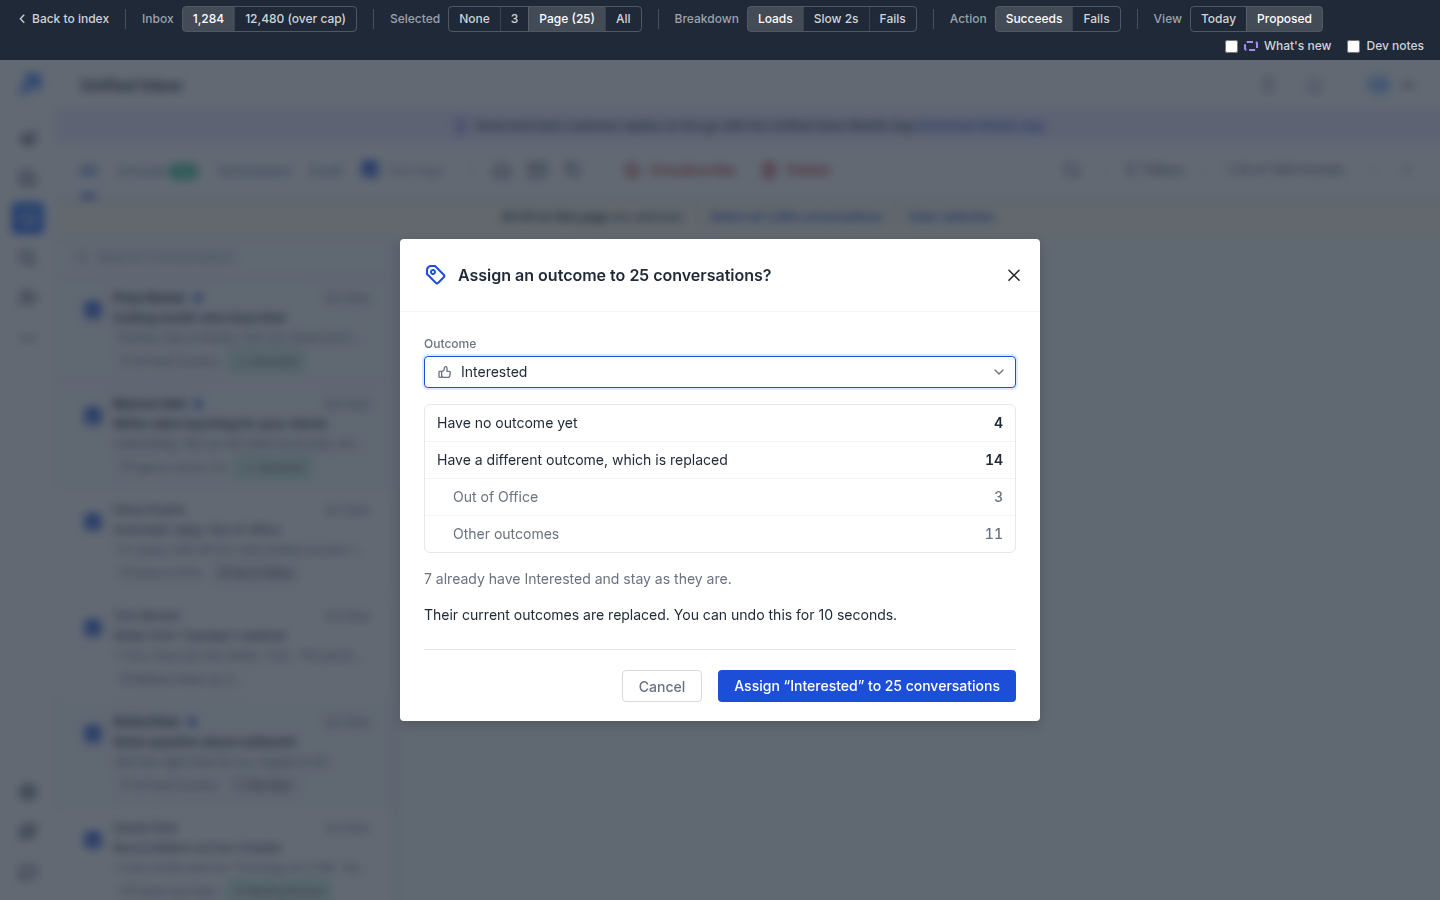
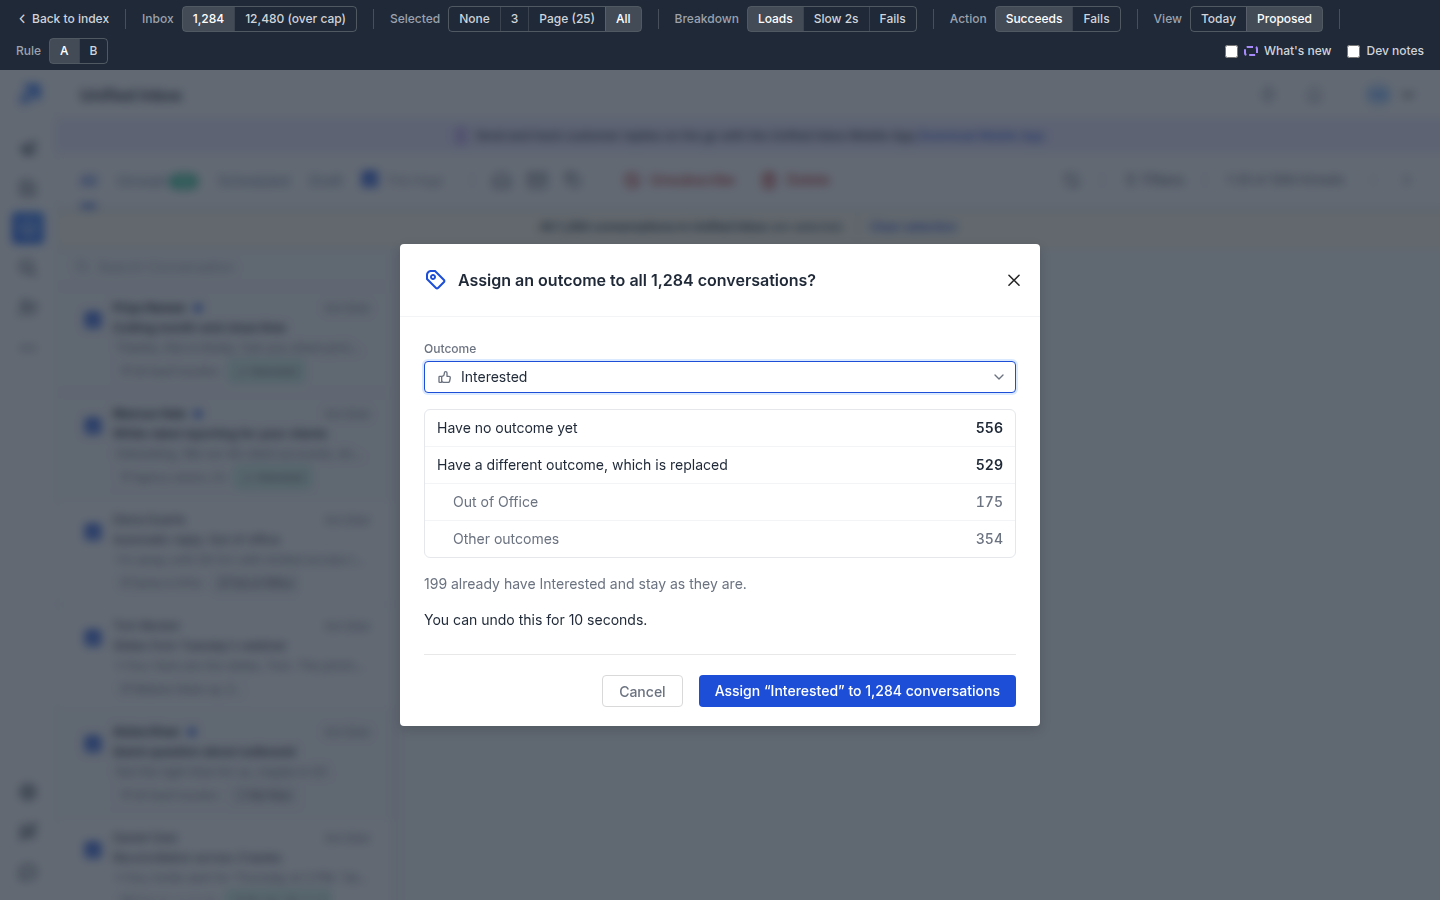
Polish pass: one-sentence credit cost, no repeated rows, consistent labels
- One cost reads as one sentence: This uses X credits of your Y, leaving Z (or You have Y, so you are Z short)
- Inbox delete and unsubscribe drop the row that repeated the title count; outcome text no longer repeats replaced
- Tasks skip keeps task rows only; list pause row is Subsequences; steps remove-account text no longer repeats the row
- Field labels match Confirm by typing; dialog text avoids one-word last lines
- Downgrade date only in the title; export title and button match; paused account copy without a time word
- Spec rules, screens 07 12 14 15 17 20 27 28 32 35, PRD page and canvas updated; refs ?v=20261120e

diff --git a/prototype/unified-inbox.js b/prototype/unified-inbox.js
@@ -315,11 +315,11 @@
     return nxImpactDialog(common({
       title, tone: 'danger', undoable: { n: N, all: all || (S.all && !stay) },
       rows: [
-        { key: 'n', label: 'Conversations', value: N, cls: 'nx-total' },
-        { key: 'active', label: 'From prospects still in an active sequence', value: s.active, sub: true },
-        { key: 'unread', label: 'With unread replies', value: s.unread, sub: true },
-        { key: 'sd', label: 'With a scheduled reply or a draft', value: s.sd, sub: true },
+        { key: 'active', label: 'From prospects still in an active sequence', value: s.active },
+        { key: 'unread', label: 'With unread replies', value: s.unread },
+        { key: 'sd', label: 'With a scheduled reply or a draft', value: s.sd },
       ],
+      sentence: (r) => ({ active: `${fmt(r.value)} ${r.value === 1 ? 'is' : 'are'} from prospects still in an active sequence.`, unread: `${fmt(r.value)} ${r.value === 1 ? 'has an unread reply' : 'have unread replies'}.`, sd: `${fmt(r.value)} ${r.value === 1 ? 'has' : 'have'} a scheduled reply or a draft.` }[r.key]),
       consequence: `The emails stay in your mailbox; they disappear from Saleshandy. You can undo this for 10 seconds.${all ? ' This empties Unified Inbox.' : ''}${stay ? ` ${fmt(stay)} stay. Run it again for the rest.` : ''}`,
       primaryLabel: N === 1 ? `${VERB.base} conversation` : all && !stay ? `${VERB.base} all ${nC(N)}` : `${VERB.base} ${nC(N)}`,
       failMessage: { title: `We couldn't ${VERB.base.toLowerCase()} ${N === 1 ? 'this conversation' : 'these conversations'} because the connection to Saleshandy dropped.`, body: `Nothing was ${VERB.past.toLowerCase()}. Check your connection and try again.` },
@@ -366,10 +366,10 @@
     return nxImpactDialog(common({
       title, tone: 'danger', undoable: { n: N, all }, icon: NX.IMG('unsubscribe-ban.svg'),
       rows: [
-        { key: 'n', label: 'Prospects', value: N, cls: 'nx-total' },
-        { key: 'act', label: 'Still in an active sequence, which stops', value: act, sub: true },
-        { key: 'oth', label: 'Also in other sequences, which stop too', value: oth, sub: true },
+        { key: 'act', label: 'Still in an active sequence, which stops', value: act },
+        { key: 'oth', label: 'Also in other sequences, which stop too', value: oth },
       ],
+      sentence: (r) => (r.key === 'act' ? `${fmt(r.value)} ${r.value === 1 ? 'is' : 'are'} still in an active sequence, which stops.` : `${fmt(r.value)} ${r.value === 1 ? 'is' : 'are'} also in other sequences, which stop too.`),
       note: notes.length ? notes.join(' ') : null,
       consequence: `No sequence will email ${N === 1 ? first(targets[0]) : 'them'} again. You can undo this for 10 seconds.`,
       primaryLabel: N === 1 ? 'Unsubscribe prospect' : `Unsubscribe ${nP(N)}`,
@@ -426,7 +426,7 @@
     const dlg = nxImpactDialog(common({
       title, tone: 'primary', icon: NX.IMG('tag-blue.svg'),
       rows: base.rows, sentence, extra,
-      consequence: 'Their current outcomes are replaced. You can undo this for 10 seconds.',
+      consequence: 'You can undo this for 10 seconds.',
       primaryLabel: `Assign outcome to ${nC(N)}`,
       failMessage: { title: 'We couldn\'t assign this outcome because it was deleted in Settings a moment ago.', body: 'Refresh the page to get the current outcomes, then try again.' },
       onConfirm: (k) => {
@@ -458,7 +458,7 @@
         noteEl.hidden = !(picked && r.same);
         if (picked && r.same) noteEl.textContent = `${fmt(r.same)} already ${r.same === 1 ? 'has' : 'have'} ${oName(picked)} and ${r.same === 1 ? 'stays' : 'stay'} as ${r.same === 1 ? 'it is' : 'they are'}.`;
       }
-      cons.textContent = r.repN || !loaded ? `${picked === 'unc' ? 'Their current outcomes are removed.' : 'Their current outcomes are replaced.'} You can undo this for 10 seconds.` : 'You can undo this for 10 seconds.';
+      cons.textContent = (r.repN || !loaded) && picked === 'unc' ? 'Their current outcomes are removed. You can undo this for 10 seconds.' : 'You can undo this for 10 seconds.'; // the row already says "replaced"
       if (picked) c.setPrimary({ disabled: false, label: `Assign “${esc(oName(picked))}” to ${nC(N)}` });
     }
     setTimeout(() => extra.sel && extra.sel.bar.focus({ preventScroll: true }), 0);

diff --git a/prototype/kit/kit.css b/prototype/kit/kit.css
@@ -186,9 +186,10 @@ body { font-family: Inter, sans-serif; background: #fff; color: var(--nx-text); 
 .nx-cost .nx-balance { color: var(--nx-text-2); }
 .nx-cost .nx-balance b { color: var(--nx-text); font-weight: 600; font-variant-numeric: tabular-nums; }
 .nx-cost .nx-balance b.nx-cost-short { color: var(--nx-red); }
-.nx-cost .nx-cost-line b { font-weight: 600; }
 .nx-cost .nx-receipt .nx-row.nx-total { background: none; border-top: 1px solid var(--nx-border); }
 .nx-cost .nx-receipt + .nx-balance { margin-top: -4px; }
+.nx-cost .nx-cost-one b { font-weight: 600; font-variant-numeric: tabular-nums; }
+.nx-cost .nx-cost-one b.nx-cost-short { color: var(--nx-red); }
 .nx-rows .react-loading-skeleton { width: 40px; height: 12px; display: block; border-radius: 4px; margin: 4px 0; }
 .nx-rows .nx-row .nx-skel-l { width: 168px; height: 12px; }
 .nx-loadfail { display: flex; gap: 8px; align-items: flex-start; padding: 8px 12px; border: 1px solid var(--nx-border); border-radius: 6px; background: var(--nx-gray-50); color: var(--nx-text-2); font-size: 14px; line-height: 20px; }
@@ -200,8 +201,8 @@ body { font-family: Inter, sans-serif; background: #fff; color: var(--nx-text); 
 .nx-error { display: flex; gap: 8px; align-items: flex-start; padding: 12px; border: 1px solid var(--nx-red-200); border-radius: 6px; background: var(--nx-red-50); color: var(--nx-red); font-size: 14px; line-height: 20px; }
 .nx-error img { width: 20px; height: 20px; flex-shrink: 0; }
 .nx-error b { font-weight: 600; display: block; }
-.nx-field { display: flex; flex-direction: column; gap: 4px; }
-.nx-field label, .nx-field .nx-label { font-size: 12px; line-height: 16px; font-weight: 600; color: var(--nx-text-2); margin: 0; }
+.nx-field { display: flex; flex-direction: column; gap: 8px; }
+.nx-field label, .nx-field .nx-label { font-size: 14px; line-height: 20px; font-weight: 400; color: var(--nx-text); margin: 0; } /* same as "Confirm by typing" */
 .nx-field input[type="password"], .nx-field input[type="text"], .nx-field input[type="number"], .nx-field select { height: 32px; box-sizing: border-box; border: 1px solid var(--nx-border-2); border-radius: 6px; padding: 0 12px; font: 14px/20px Inter, sans-serif; color: var(--nx-text); background: #fff; }
 .nx-field input:focus, .nx-field select:focus { outline: 0; border-color: var(--nx-blue); box-shadow: 0 0 0 3px var(--nx-blue-100); }
 .nx-field.nx-invalid input { border-color: var(--nx-red); }
@@ -285,3 +286,6 @@ main.home-container:focus { outline: none; }
   /* the changelog bolt is the least needed icon at phone width: dropping it leaves the sequence name room (bell and avatar stay) */
   .nx-kit .page-header > .w-auto > .ml-3:first-child { display: none; }
 }
+
+/* no one-word last lines in dialog copy */
+.nx-dialog .modal-body p, .nx-dialog .nx-error, .nx-dialog .nx-rows dt { text-wrap: pretty; }

diff --git a/prototype/tasks.js b/prototype/tasks.js
@@ -99,7 +99,7 @@
       intro: 'Spec row 11, plus bulk Retry on the Failed tab. Breakdown counts come from the backend before the dialog opens; the client cannot count them for "Select all". Undo needs the skip to start only after 10 seconds and be cancellable until then. Today the single-task skip already calls an undo endpoint (sendGetUndoTasksRequest); bulk has none.',
       rows: [
         { n: 11, surface: 'Tasks (Due Today, Upcoming, Overdue, Failed)', action: 'Bulk skip, up to 25,000', patterns: 'A B F H', undo: 'Yes, 10 seconds',
-          breakdown: 'Tasks by type (Call, LinkedIn, Manual email; zero rows hidden), and "Prospects who move to their next step". A note under the rows counts tasks that are the last step of their sequence (those prospects finish the sequence instead). Title names the tab: "Skip 36 tasks due today?", "Skip all 1,120 tasks due today?", "Skip 8 failed tasks?".',
+          breakdown: 'Tasks by type (Call, LinkedIn, Manual email; zero rows hidden). Where the prospects go is said in the consequence, not as a row. A note under the rows counts tasks that are the last step of their sequence (those prospects finish the sequence instead). Title names the tab: "Skip 36 tasks due today?", "Skip all 1,120 tasks due today?", "Skip 8 failed tasks?".',
           code: [
             { label: 'tasks-content.tsx L2303-2345 (fixed title "Skip task", "No" / "Skip Anyway")', url: C + 'tasks-content.tsx#L2303-L2345' },
             { label: 'tasks-content.tsx L2058-2066 (copy, no count)', url: C + 'tasks-content.tsx#L2058-L2066' },
@@ -260,9 +260,8 @@
         { key: 'call', label: 'Call tasks', value: s.call },
         { key: 'linkedin', label: 'LinkedIn tasks', value: s.linkedin },
         { key: 'email', label: 'Manual email tasks', value: s.email },
-        { key: 'move', label: 'Prospects who move to their next step', value: s.move },
       ],
-      sentence: (r) => (r.key === 'move' ? `All ${fmt(N)} prospects move to their next step.` : `All ${fmt(N)} are ${kind[r.key][1]}.`),
+      sentence: (r) => `All ${fmt(N)} are ${kind[r.key][1]}.`, // rows count tasks only; where prospects go is the consequence
       note: s.last ? `${fmt(s.last)} of these ${s.last === 1 ? 'is the last step in its sequence, so that prospect finishes it' : 'are the last step in their sequence, so those prospects finish it'} instead.` : null,
       consequence: `Each prospect moves on and their next step is scheduled. You can undo this for 10 seconds.${all ? (failed ? ' This clears the Failed list.' : ' This clears your Due Today list.') : ''}`,
       primaryLabel: all ? `Skip all ${nT(N)}` : `Skip ${nT(N)}`,

diff --git a/prototype/kit/kit.js b/prototype/kit/kit.js
@@ -824,7 +824,12 @@
       : `You have ${cr(o.have)}. <b>${fmt(o.have - uses)}</b> left after this.`;
     const html = o.items.length > 1
       ? `<dl class="nx-rows nx-receipt">${o.items.map((i) => `<div class="nx-row"><dt>${iname(i)}</dt><dd>${fmt(i.credits)}</dd></div>`).join('')}<div class="nx-row nx-total"><dt>Total</dt><dd>${cr(uses)}</dd></div></dl><p class="nx-balance">${bal}</p>`
-      : `<p class="nx-cost-line">This uses <b>${cr(uses)}</b>.</p><p class="nx-balance">${bal}</p>`;
+      : (() => { // one cost: one sentence with cost, balance and what is left; an estimate only adds "about"
+        const about = o.estimate ? 'about ' : '';
+        return short
+          ? `<p class="nx-cost-one">This uses <b>${about}${cr(uses)}</b>. You have ${fmt(o.have)}, so you are <b class="nx-cost-short">${fmt(short)} short</b>.</p>`
+          : `<p class="nx-cost-one">This uses <b>${about}${cr(uses)}</b> of your ${fmt(o.have)}, leaving <b>${fmt(o.have - uses)}</b>.</p>`;
+      })();
     const body = h(`<div class="nx-impact nx-new nx-cost">${html}${o.consequence ? `<p class="nx-consequence">${o.consequence}</p>` : ''}</div>`);
     const run = (fn) => (c) => {
       c.setError(null); c.setBusy(true);
@@ -852,7 +857,7 @@
     let need = 0;
     const picked = new Set();
     if (o.kind === 'downgrade') {
-      body.appendChild(h(`<p>On <b>${o.date}</b>, these stop:</p>`));
+      body.appendChild(h('<p>These stop on that date:</p>')); // the date is in the title
       body.appendChild(h(renderRows(o.stops) || '<span></span>'));
       if (o.list && o.list.items.length) {
         // named list of what pauses, so nothing is a surprise on the date

diff --git a/prototype/admin-billing.js b/prototype/admin-billing.js
@@ -265,10 +265,10 @@
     if (key === 'export') {
       if (!wanted || isToday()) return apply(() => { A.exportOn = wanted; if (!wanted) A.exportAdmin = false; });
       return reauth({
-        title: `Let ${TEAM.members} team members export data?`,
+        title: `Allow ${TEAM.members} team members to export data?`,
         sentence: `${TEAM.members} members can download prospects, reports, leads and engagement data as files.`,
         consequence: 'Files that leave Saleshandy can\'t be called back. You can turn this off at any time.',
-        primaryLabel: `Allow ${TEAM.members} members to export`,
+        primaryLabel: `Allow ${TEAM.members} members to export data`,
         onConfirm: () => apply(() => { A.exportOn = true; }, `${TEAM.members} members can now export data`),
       });
     }
@@ -384,7 +384,7 @@
           { label: 'A/B tests that stop', value: 5 },
         ],
         list: { title: 'Sequences that pause', items: PAUSING },
-        consequence: `Sequences pause and A/B tests stop; email tracking and warm-up keep working. Nothing changes until ${BILL.next}. Your bill goes from ${money(before)} to ${money(after)} a month.`,
+        consequence: `Sequences pause and A/B tests stop; email tracking and warm-up keep working. Nothing changes until then. Your bill goes from ${money(before)} to ${money(after)} a month.`,
         primaryLabel: `Downgrade to ${p.name.replace(' (Monthly)', '')}`,
         tone: 'primary', submit: S.result, submitDelay: SD(),
         failMessage: { title: 'Your plan did not change.', body: 'The billing service did not respond. Try again in a minute.' },

diff --git a/prototype/popup-directions.html b/prototype/popup-directions.html
@@ -6,7 +6,7 @@
 <title>Bulk bar popups: directions</title>
 <link href="https://fonts.googleapis.com/css2?family=Inter:wght@400;500;600;700&display=swap" rel="stylesheet">
 <link rel="stylesheet" href="prod/index.css">
-<link rel="stylesheet" href="kit/kit.css?v=20261120b">
+<link rel="stylesheet" href="kit/kit.css?v=20261120e">
 <style>
 html, body { height: auto; overflow: auto; }
 body { margin: 0; background: #f9fafb; color: #1f2937; font: 14px/20px Inter, sans-serif; }
@@ -112,8 +112,8 @@ table.t td.n { white-space: nowrap; font-weight: 600; font-variant-numeric: tabu
 </table>
 <p class="l" style="margin-top:12px">Verified: layout and classes render from the kit's nxDialog (production ConfirmationModalV3). Assumed: the can't-undo facts for Unsubscribe and Finished come from the 19 Nov review notes, not from the backend; "add them again" after unsubscribe is the review's stated workaround and re-adding an unsubscribed prospect may be blocked by compliance, so Dhruv or Chintan should confirm it before it ships in copy.</p>
 </main>
-<script src="kit/kit.js?v=20261120b"></script>
-<script src="sequence-prospects-markup.js?v=20261120b"></script>
+<script src="kit/kit.js?v=20261120e"></script>
+<script src="sequence-prospects-markup.js?v=20261120e"></script>
 <script>
 (function () {
   const { h } = NX;

diff --git a/prototype/sequence-list.js b/prototype/sequence-list.js
@@ -249,11 +249,6 @@
         el.querySelector('.bs-checkbox-wrapper').insertAdjacentHTML('beforeend', `<span class="checkbox-label-text">Pause the ${count === 1 ? 'subsequence' : `${fmt(count)} subsequences`} as well</span>`);
         el.querySelector('input').addEventListener('change', (e) => {
           on = e.target.checked;
-          if (row) {
-            row.label = on ? 'Subsequences' : 'Subsequences, which keep sending';
-            const dt = document.querySelector('.nx-dialog .sl-subrow dt');
-            if (dt) dt.textContent = row.label;
-          }
         });
       },
       value() { return on; },
@@ -283,7 +278,7 @@
     const subs = arr.reduce((a, s) => a + s.subs.filter((x) => x.progress === 'active').length, 0);
     const all = !single && isEverything(sel) && skipped === 0;
     const allActive = !single && N === list().filter((s) => s.progress === 'active').length && N > 1;
-    const subRow = { key: 'subs', label: 'Subsequences, which keep sending', value: subs, cls: 'sl-subrow' };
+    const subRow = { key: 'subs', label: 'Subsequences', value: subs, cls: 'sl-subrow' }; // the checkbox under it carries the choice
     const one = N === 1;
     const o = dlgCommon({
       title: one ? `Pause ${q(arr[0])}?` : all ? `Pause all ${nS(N)}?` : `Pause ${nS(N)}?`,

diff --git a/prototype/tasks.html b/prototype/tasks.html
@@ -10,7 +10,7 @@
 <link href="https://fonts.googleapis.com/css2?family=Inter:wght@400;500;600;700&display=swap" rel="stylesheet">
 <!-- Production stylesheet, verbatim from my.saleshandy.com; icon font repointed to local files beside it. -->
 <link rel="stylesheet" href="prod/index.css">
-<link rel="stylesheet" href="kit/kit.css?v=20261120b">
+<link rel="stylesheet" href="kit/kit.css?v=20261120e">
 <style>
 /* page-only rules. Production layout comes from prod/index.css; nx- and tk- rules cover what is new or what the demo bar changes. */
 #tk-root { flex: 1; min-height: 0; display: flex; flex-direction: column; }
@@ -66,8 +66,8 @@ body:has(.pagination-container-new) .nx-toasts.bs-message-container .bs-message.
 </style>
 </head>
 <body>
-<script src="kit/kit.js?v=20261120b"></script>
-<script src="tasks-markup.js?v=20261120b"></script>
-<script src="tasks.js?v=20261120b"></script>
+<script src="kit/kit.js?v=20261120e"></script>
+<script src="tasks-markup.js?v=20261120e"></script>
+<script src="tasks.js?v=20261120e"></script>
 </body>
 </html>

diff --git a/prototype/crm-prospects.html b/prototype/crm-prospects.html
@@ -10,7 +10,7 @@
 <link href="https://fonts.googleapis.com/css2?family=Inter:wght@400;500;600;700&display=swap" rel="stylesheet">
 <!-- Production stylesheet, verbatim from my.saleshandy.com; icon font repointed to local files beside it. -->
 <link rel="stylesheet" href="prod/index.css">
-<link rel="stylesheet" href="kit/kit.css?v=20261120b">
+<link rel="stylesheet" href="kit/kit.css?v=20261120e">
 <style>
 /* page-only rules. Production layout comes from prod/index.css; nx- rules cover what is new, crm- rules stand in
    for third-party widgets the prototype does not load (OverlayScrollbars, react-autosuggest, Select, the prompt editor). */
@@ -103,8 +103,8 @@
 </style>
 </head>
 <body>
-<script src="kit/kit.js?v=20261120b"></script>
-<script src="crm-prospects-markup.js?v=20261120b"></script>
-<script src="crm-prospects.js?v=20261120b"></script>
+<script src="kit/kit.js?v=20261120e"></script>
+<script src="crm-prospects-markup.js?v=20261120e"></script>
+<script src="crm-prospects.js?v=20261120e"></script>
 </body>
 </html>

diff --git a/prototype/settings.html b/prototype/settings.html
@@ -10,7 +10,7 @@
 <link href="https://fonts.googleapis.com/css2?family=Inter:wght@400;500;600;700&display=swap" rel="stylesheet">
 <!-- Production stylesheet, verbatim from my.saleshandy.com; icon font repointed to local files beside it. -->
 <link rel="stylesheet" href="prod/index.css">
-<link rel="stylesheet" href="kit/kit.css?v=20261120b">
+<link rel="stylesheet" href="kit/kit.css?v=20261120e">
 <style>
 /* page-only rules. Production layout comes from prod/index.css; st- and nx- rules cover the prototype and what is new. */
 /* Delete User popup: wider than production's 27.375rem so each sentence sits on one line at desktop (Hitesh, 20 Nov 2026). */
@@ -71,8 +71,8 @@
 </style>
 </head>
 <body>
-<script src="kit/kit.js?v=20261120b"></script>
-<script src="settings-markup.js?v=20261120b"></script>
-<script src="settings.js?v=20261120b"></script>
+<script src="kit/kit.js?v=20261120e"></script>
+<script src="settings-markup.js?v=20261120e"></script>
+<script src="settings.js?v=20261120e"></script>
 </body>
 </html>

diff --git a/prototype/unified-inbox.html b/prototype/unified-inbox.html
@@ -10,7 +10,7 @@
 <link href="https://fonts.googleapis.com/css2?family=Inter:wght@400;500;600;700&display=swap" rel="stylesheet">
 <!-- Production stylesheet, verbatim from my.saleshandy.com; icon font repointed to local files beside it. -->
 <link rel="stylesheet" href="prod/index.css">
-<link rel="stylesheet" href="kit/kit.css?v=20261120b">
+<link rel="stylesheet" href="kit/kit.css?v=20261120e">
 <style>
 /* page-only rules. Production layout comes from prod/index.css; ui-/nx- rules cover the prototype frame and what is new. */
 #ui-root { flex: 1; min-height: 0; display: flex; flex-direction: column; }
@@ -94,8 +94,8 @@
 </style>
 </head>
 <body>
-<script src="kit/kit.js?v=20261120b"></script>
-<script src="unified-inbox-markup.js?v=20261120b"></script>
-<script src="unified-inbox.js?v=20261120b"></script>
+<script src="kit/kit.js?v=20261120e"></script>
+<script src="unified-inbox-markup.js?v=20261120e"></script>
+<script src="unified-inbox.js?v=20261120e"></script>
 </body>
 </html>

diff --git a/prototype/sequence-prospects.html b/prototype/sequence-prospects.html
@@ -10,7 +10,7 @@
 <link href="https://fonts.googleapis.com/css2?family=Inter:wght@400;500;600;700&display=swap" rel="stylesheet">
 <!-- Production stylesheet, verbatim from my.saleshandy.com; icon font repointed to local files beside it. -->
 <link rel="stylesheet" href="prod/index.css">
-<link rel="stylesheet" href="kit/kit.css?v=20261120b">
+<link rel="stylesheet" href="kit/kit.css?v=20261120e">
 <style>
 /* page-only rules. Production layout comes from prod/index.css; nx- rules cover what is new. */
 #sp-root { flex: 1; min-height: 0; display: flex; flex-direction: column; }
@@ -69,8 +69,8 @@
 </style>
 </head>
 <body>
-<script src="kit/kit.js?v=20261120b"></script>
-<script src="sequence-prospects-markup.js?v=20261120b"></script>
-<script src="sequence-prospects.js?v=20261120b"></script>
+<script src="kit/kit.js?v=20261120e"></script>
+<script src="sequence-prospects-markup.js?v=20261120e"></script>
+<script src="sequence-prospects.js?v=20261120e"></script>
 </body>
 </html>
